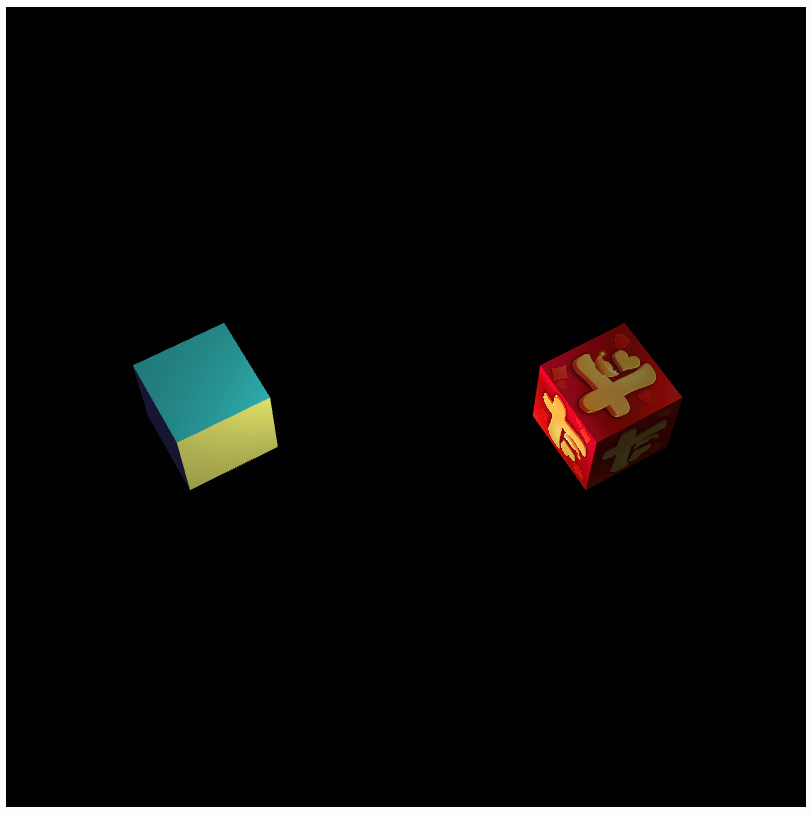
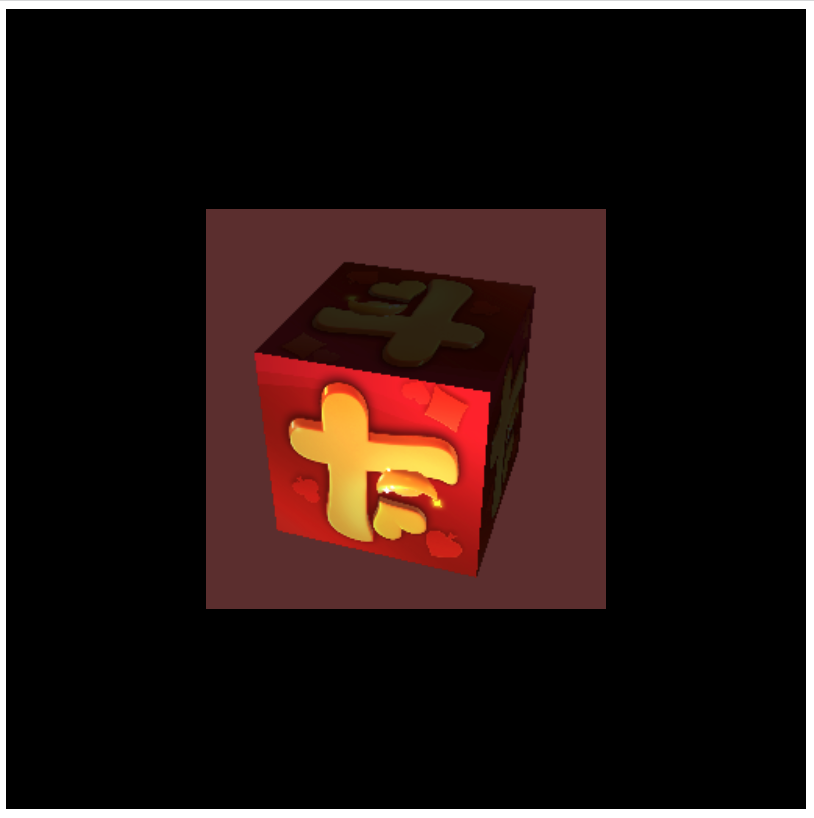
update frame buffer demo

Changed region(s): [[0.1541, 0.2454, 0.8631, 0.7669], [0.0, 0.0, 1.0, 1.0]]

diff --git a/Ch10_7_FrameBuffer/main.js b/Ch10_7_FrameBuffer/main.js
@@ -3,7 +3,7 @@ var Plane_VSHADER_SOURCE =
     'attribute vec2 a_TexCoord;\n' +
     'varying vec2 v_TexCoord;\n' +
     'void main(){\n' +
-    'gl_Position = u_MvpMatrix * a_Position;\n' +
+    'gl_Position = a_Position;\n' +
     'v_TexCoord = a_TexCoord;\n' +
     '}\n';
 
@@ -90,8 +90,6 @@ function main() {
     var plane = initPlaneBuffer(gl);
     var texCube = initTexBuffer(gl);
 
-    gl.clearColor(0.0, 0.0, 0.0, 1.0);
-    gl.enable(gl.DEPTH_TEST);
     var vMatrix = new Matrix4();
     var pMatrix = new Matrix4();
     var vpMatrix = new Matrix4();
@@ -100,20 +98,21 @@ function main() {
     vpMatrix.set(pMatrix).multiply(vMatrix);
 
     var planeVPMatrix = new Matrix4();
-    planeVPMatrix.setPerspective(30, OFFSCREEN_WIDTH / OFFSCREEN_HEIGHT, 1, 100);
-    planeVPMatrix.lookAt(0.0, 2.0, 7.0, 0.0, 0.0, 0.0, 0.0, 1.0, 0.0);
+    planeVPMatrix.setPerspective(30, canvas.width / canvas.height, 1, 100);
+    planeVPMatrix.lookAt(0.0, 0.0, 7.0, 0.0, 0.0, 0.0, 0.0, 1.0, 0.0);
 
     var cubeVPMatrix = new Matrix4();
     cubeVPMatrix.setPerspective(30, OFFSCREEN_WIDTH / OFFSCREEN_HEIGHT, 1, 100);
     cubeVPMatrix.lookAt(0.0, 2.0, 7.0, 0.0, 0.0, 0.0, 0.0, 1.0, 0.0);
 
     var texture = initTextures(gl, cubeProgram);
+    var fbo = initFrameBuffer(gl);
+
+    gl.enable(gl.DEPTH_TEST);
+    gl.enable(gl.CULL_FACE);
     var tick = function () {
-        g_XAngle += g_Step;
-        g_YAngle += g_Step;
-        gl.clear(gl.COLOR_BUFFER_BIT | gl.DEPTH_BUFFER_BIT);
-        drawplane(gl, planeProgram, plane, vpMatrix);
-        drawTexCube(gl, cubeProgram, texCube, texture, vpMatrix);
+        drawTexCube(gl, cubeProgram, texCube, texture, cubeVPMatrix, fbo);
+        drawPlane(gl, planeProgram, plane, fbo.texture, planeVPMatrix, canvas);
         requestAnimationFrame(tick);
     }
     tick();
@@ -122,49 +121,45 @@ function main() {
 /**
  * 
  * @param {WebGLRenderingContext} gl 
- * @param {*} planeProgram 
+ * @param {*} program 
  * @param {*} plane 
  * @param {*} vpMatrix 
  */
-function drawplane(gl, program, cube, vpMatrix) {
+function drawPlane(gl, program, plane, texture, planeVPMatrix, canvas) {
+    gl.bindFramebuffer(gl.FRAMEBUFFER, null);
+    gl.viewport(0, 0, canvas.width, canvas.height);
+    gl.clearColor(0.0, 0.0, 0.0, 1.0);
+    gl.clear(gl.COLOR_BUFFER_BIT | gl.DEPTH_BUFFER_BIT); // 此处清理的是FrameBuffer中的颜色缓冲区和深度缓冲区
     gl.useProgram(program);
-    initAttributeVariable(gl, program.a_Position, cube.vertexBuffer);
-    initAttributeVariable(gl, program.a_Normal, cube.normalBuffer);
-    initAttributeVariable(gl, program.a_Color, cube.colorBuffer);
-    gl.bindBuffer(gl.ELEMENT_ARRAY_BUFFER, cube.indexBuffer);
-    drawCube(gl, program, cube, vpMatrix, -4.0);
-}
-
-/**
- * 
- * @param {WebGLRenderingContext} gl 
- * @param {*} cubeProgram 
- * @param {*} texCube 
- * @param {*} vpMatrix 
- */
-function drawTexCube(gl, program, cube, texture, vpMatrix) {
-    gl.useProgram(program);
-    initAttributeVariable(gl, program.a_Position, cube.vertexBuffer);
-    initAttributeVariable(gl, program.a_Normal, cube.normalBuffer);
-    initAttributeVariable(gl, program.a_TexCoord, cube.uvBuffer);
-    gl.bindBuffer(gl.ELEMENT_ARRAY_BUFFER, cube.indexBuffer);
-    gl.activeTexture(gl.TEXTURE0);
-    gl.bindTexture(gl.TEXTURE_2D, texture);
-    drawCube(gl, program, cube, vpMatrix, 4.0);
+    initAttributeVariable(gl, program.a_Position, plane.vertexBuffer);
+    initAttributeVariable(gl, program.a_TexCoord, plane.uvBuffer);
+    gl.uniformMatrix4fv(program.u_MvpMatrix, false, planeVPMatrix.elements);
+    gl.bindBuffer(gl.ELEMENT_ARRAY_BUFFER, plane.indexBuffer);
+    drawTextureObject(gl, texture, plane.numIndices);
 }
 
 /**
  * 
  * @param {WebGLRenderingContext} gl 
  * @param {*} program 
- * @param {*} cube 
+ * @param {*} texCube 
  * @param {*} vpMatrix 
  */
-function drawCube(gl, program, cube, vpMatrix, x) {
+function drawTexCube(gl, program, texCube, texture, cubeVPMatrix, fbo) {
+    g_XAngle += g_Step;
+    g_YAngle += g_Step;
+    gl.bindFramebuffer(gl.FRAMEBUFFER, fbo);
+    gl.viewport(0, 0, OFFSCREEN_WIDTH, OFFSCREEN_HEIGHT);
+    gl.clearColor(0.4, 0.2, 0.2, 1.0);
+    gl.clear(gl.COLOR_BUFFER_BIT | gl.DEPTH_BUFFER_BIT); // 此处清理的是FrameBuffer中的颜色缓冲区和深度缓冲区
+    gl.useProgram(program);
+    initAttributeVariable(gl, program.a_Position, texCube.vertexBuffer);
+    initAttributeVariable(gl, program.a_Normal, texCube.normalBuffer);
+    initAttributeVariable(gl, program.a_TexCoord, texCube.uvBuffer);
+
     var mMatrix = new Matrix4();
     var mvpMatrix = new Matrix4();
-    mMatrix.setTranslate(x, 0, 0);
-    mMatrix.rotate(g_XAngle, 1.0, 0.0, 0.0);
+    mMatrix.setRotate(g_XAngle, 1.0, 0.0, 0.0);
     mMatrix.rotate(g_YAngle, 0.0, 1.0, 0.0);
 
     gl.uniformMatrix4fv(program.u_MMatrix, false, mMatrix.elements);
@@ -172,14 +167,21 @@ function drawCube(gl, program, cube, vpMatrix, x) {
     normalMatrix.setInverseOf(mMatrix);
     normalMatrix.transpose();
     gl.uniformMatrix4fv(program.u_NormalMatrix, false, normalMatrix.elements)
-    mvpMatrix.set(vpMatrix).multiply(mMatrix);
+    mvpMatrix.set(cubeVPMatrix).multiply(mMatrix);
     gl.uniformMatrix4fv(program.u_MvpMatrix, false, mvpMatrix.elements);
 
-    gl.uniform3f(program.u_AmbientColor, 0.2, 0.2, 0.2);
-    gl.uniform3f(program.u_LightPosition, 0.0, 0.0, 3.0);
-    gl.uniform3f(program.u_LightColor, 1.0, 1.0, 1.0);
+    // gl.uniform3f(program.u_AmbientColor, 0.2, 0.2, 0.2);
+    // gl.uniform3f(program.u_LightPosition, 0.0, 0.0, 3.0);
+    // gl.uniform3f(program.u_LightColor, 1.0, 1.0, 1.0);
 
-    gl.drawElements(gl.TRIANGLES, cube.numIndices, gl.UNSIGNED_BYTE, 0);
+    gl.bindBuffer(gl.ELEMENT_ARRAY_BUFFER, texCube.indexBuffer);
+    drawTextureObject(gl, texture, texCube.numIndices);
+}
+
+function drawTextureObject(gl, texture, n) {
+    gl.activeTexture(gl.TEXTURE0);
+    gl.bindTexture(gl.TEXTURE_2D, texture);
+    gl.drawElements(gl.TRIANGLES, n, gl.UNSIGNED_BYTE, 0);
 }
 
 /**
@@ -196,13 +198,17 @@ function initAttributeVariable(gl, attr, buffer) {
 
 function initPlaneBuffer(gl) {
     var vertices = new Float32Array([
-        1.0, 1.0, 1.0, -1.0, 1.0, 1.0, -1.0, -1.0, 1.0, 1.0, -1.0, 1.0,
+        0.5, 0.5, 0.0, -0.5, 0.5, 0.0, -0.5, -0.5, 0.0, 0.5, -0.5, 0.0,
     ]);
+    var uvs = new Float32Array([
+        1.0, 1.0, 0.0, 1.0, 0.0, 0.0, 1.0, 0.0,
+    ])
     var indices = new Uint8Array([
         0, 1, 2, 0, 2, 3,
     ]);
     var o = new Object();
     o.vertexBuffer = initArrayBufferForLaterUse(gl, vertices, 3, gl.FLOAT);
+    o.uvBuffer = initArrayBufferForLaterUse(gl, uvs, 2, gl.FLOAT);
     o.indexBuffer = initElementArrayBufferForLaterUse(gl, indices, gl.UNSIGNED_BYTE);
     o.numIndices = indices.length;
     gl.bindBuffer(gl.ARRAY_BUFFER, null);
@@ -230,7 +236,7 @@ function initTexBuffer(gl) {
         1.0, 1.0, 0.0, 1.0, 0.0, 0.0, 1.0, 0.0,
         1.0, 1.0, 0.0, 1.0, 0.0, 0.0, 1.0, 0.0,
         1.0, 1.0, 0.0, 1.0, 0.0, 0.0, 1.0, 0.0,
-    ])
+    ]);
     var normals = new Float32Array([
         0.0, 0.0, 1.0, 0.0, 0.0, 1.0, 0.0, 0.0, 1.0, 0.0, 0.0, 1.0, // 前 v0v1v2v3 0,1,2,3
         1.0, 0.0, 0.0, 1.0, 0.0, 0.0, 1.0, 0.0, 0.0, 1.0, 0.0, 0.0, // 右 v4v0v3v5 4,5,6,7
@@ -305,4 +311,62 @@ function initTextures(gl, program) {
     image.crossOrigin = "anonymous"
     image.src = "http://static.yximgs.com/udata/pkg/DDZ/ddzicon_01.jpg";
     return texture;
+}
+
+/**
+ * 
+ * @param {WebGLRenderingContext} gl 
+ */
+function initFrameBuffer(gl) {
+    var frameBuffer, texture, depthBuffer;
+    var error = function () {
+        if (frameBuffer) {
+            gl.deleteFramebuffer(frameBuffer);
+        }
+        if (texture) {
+            gl.deleteTexture(texture);
+        }
+        if (depthBuffer) {
+            gl.deleteRenderbuffer(depthBuffer);
+        }
+        return null;
+    }
+    frameBuffer = gl.createFramebuffer();
+    if (!frameBuffer) {
+        console.error("Failed to create frame buffer object!");
+        return error();
+    }
+    texture = gl.createTexture();
+    if (!texture) {
+        console.error("Failed to create texture object!");
+        return error();
+    }
+    depthBuffer = gl.createRenderbuffer();
+    if (!depthBuffer) {
+        console.error("Failed to create depthBuffer object!");
+        return error();
+    }
+    // 绑定纹理
+    gl.bindTexture(gl.TEXTURE_2D, texture);
+    // 设置相关属性，并传入空数据
+    gl.texImage2D(gl.TEXTURE_2D, 0, gl.RGBA, OFFSCREEN_WIDTH, OFFSCREEN_HEIGHT, 0, gl.RGBA, gl.UNSIGNED_BYTE, null);
+    gl.texParameteri(gl.TEXTURE_2D, gl.TEXTURE_MIN_FILTER, gl.LINEAR);
+    frameBuffer.texture = texture;
+
+    gl.bindRenderbuffer(gl.RENDERBUFFER, depthBuffer);
+    gl.renderbufferStorage(gl.RENDERBUFFER, gl.DEPTH_COMPONENT16, OFFSCREEN_WIDTH, OFFSCREEN_HEIGHT);
+
+    gl.bindFramebuffer(gl.FRAMEBUFFER, frameBuffer);
+    gl.framebufferTexture2D(gl.FRAMEBUFFER, gl.COLOR_ATTACHMENT0, gl.TEXTURE_2D, texture, 0);
+    gl.framebufferRenderbuffer(gl.FRAMEBUFFER, gl.DEPTH_ATTACHMENT, gl.RENDERBUFFER, depthBuffer);
+
+    var e = gl.checkFramebufferStatus(gl.FRAMEBUFFER);
+    if (e != gl.FRAMEBUFFER_COMPLETE) {
+        console.log('Frame buffer object is incomplete: ' + e.toString());
+        return error();
+    }
+    gl.bindFramebuffer(gl.FRAMEBUFFER, null);
+    gl.bindTexture(gl.TEXTURE_2D, null);
+    gl.bindRenderbuffer(gl.RENDERBUFFER, null);
+    return frameBuffer;
 }

diff --git a/README.md b/README.md
@@ -107,3 +107,17 @@
 >使用多个Shader需要创建多个program，并按需要切换program
 
 ![image](https://github.com/gaolizheng/LearnWebGL/blob/master/Ch10_6_ChangeShader/effect.png)
+
+## ch10_7 使用FrameBuffer渲染内容到纹理（离屏渲染）
+
+>之前都是将内容渲染到颜色缓冲区然后显示到屏幕上，还可以通过使用帧缓冲区将内容渲染成一张纹理再贴到其他物体上。
+
+>帧缓冲区对象(FrameBuffer Object)可以用来替代颜色缓冲区或深度缓冲区，绘制到帧缓冲区的内容不直接显示到canvas上，你可以先对帧缓冲区中的内容做一些处理再显示，或者直接使用其中的内容作为纹理对象。在帧缓冲区中进行绘制的过程又称为离屏渲染。
+
+>>当使用帧缓冲区时，绘制并不是直接发生在其中的，而是发生在帧缓冲区所关联的对象上。一个帧缓冲区有3个关联对象：颜色关联对象、深度关联对象和模版关联对象，分别用来替代颜色缓冲区、深度缓冲区和模版缓冲区。
+
+>>帧缓冲区的每个关联对象可以是两种类型的：纹理对象或者渲染缓冲区对象(RenderBuffer Object)
+
+>>使用帧缓冲区的步骤：1.创建帧缓冲区对象(gl.createFramebuffer()) 2.创建纹理对象并设置其尺寸和参数(gl.createTexture()、gl.bindTexture()、gl.texImage2D()、gl.Parameteri()) 3.创建渲染缓冲区对象(gl.createRenderbuffer()) 4.绑定渲染缓冲区对象并设置其尺寸(gl.bindRenderbuffer()、gl.renderbufferStorage()) 5.将帧缓冲区的颜色关联对象指定为一个纹理对象(gl.framebufferTexture2D()) 6.将帧缓冲区的深度关联对象指定为一个渲染缓冲区对象(gl.framebufferRenderbuffer()) 7.检查帧缓冲区是否正确配置(gl.checkFramebufferStatus())
+
+![image](https://github.com/gaolizheng/LearnWebGL/blob/master/Ch10_7_FrameBuffer/effect.png)
